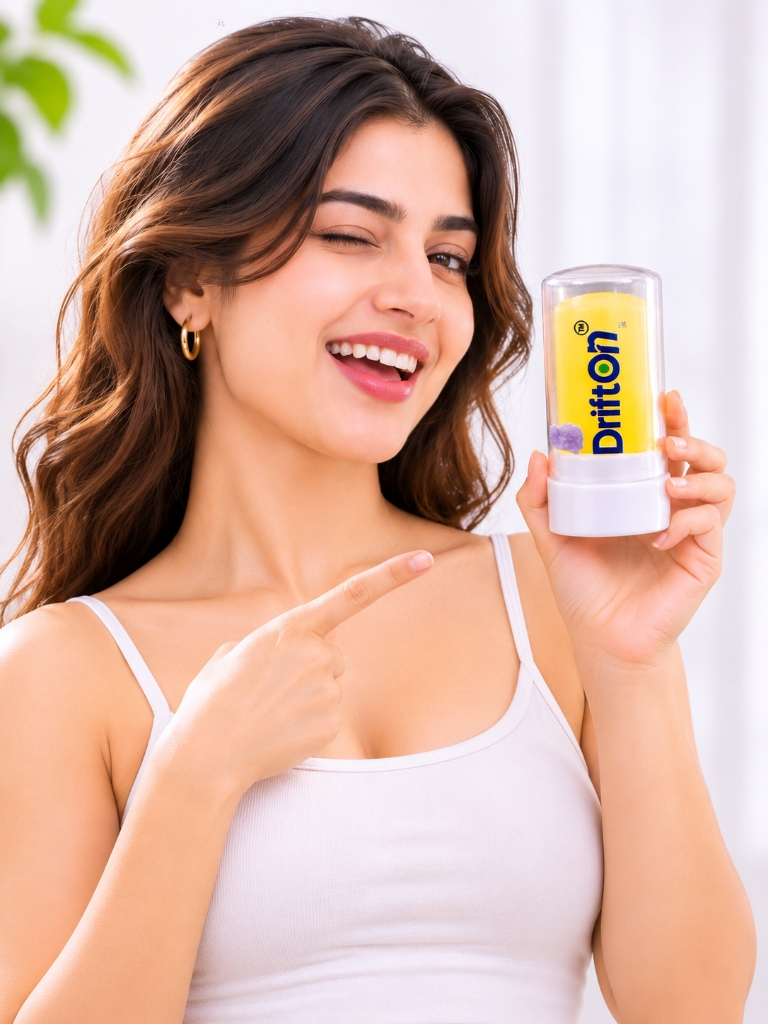
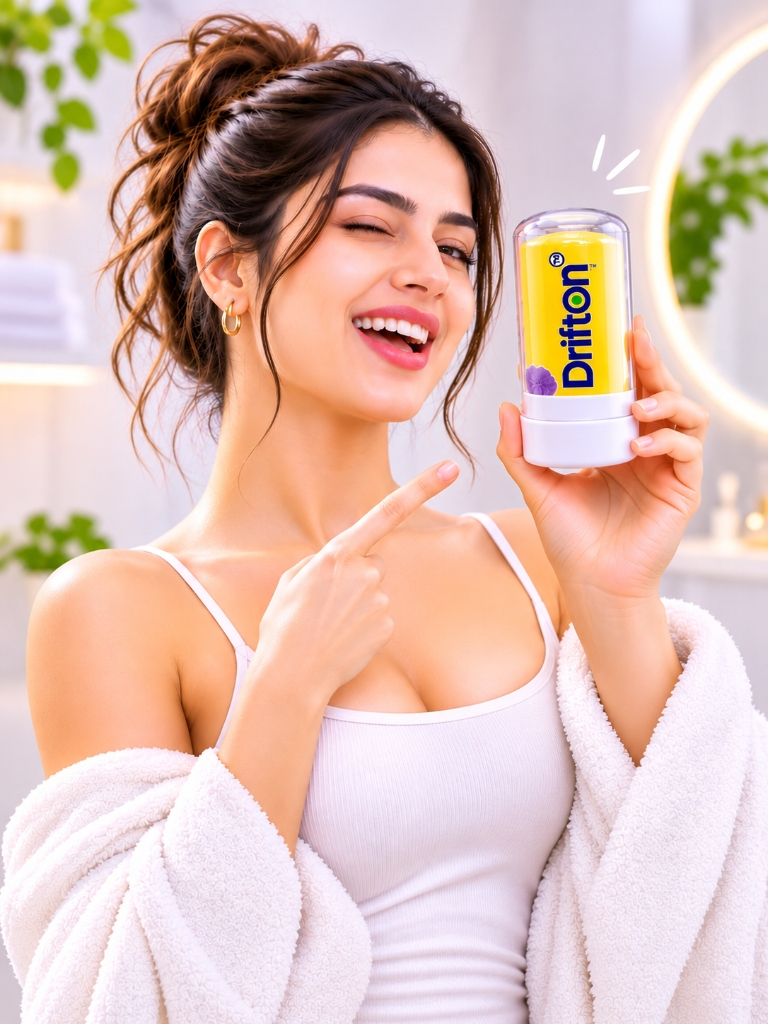
Update hero slide #4 with 4-variants model photo and enlarge right side products

diff --git a/src/data/products.js b/src/data/products.js
@@ -149,7 +149,7 @@ export const bannerSlides = [
     bgFrom: '#F3E9F3', bgTo: '#F7B9D0', glow: '#FF9CC2', dark: false, accent: '#A02E54',
   },
   {
-    productId: 'palash', modelPhoto: '/assets/images/models/model-girl.webp', modelPos: '58% center', cutout: '/assets/images/cutouts/palash.webp', rightImage: '/assets/images/hero-products/range-palash.webp',
+    productId: 'palash', modelPhoto: '/assets/images/models/model-palash-robe.jpg', modelPos: '50% 20%', cutout: '/assets/images/cutouts/palash.webp', rightImage: '/assets/images/hero-products/range-palash.webp',
     bgFrom: '#FFF3E2', bgTo: '#FFC98A', glow: '#FFB45E', dark: false, accent: '#C2571A',
     serif: 'Crystal Roll On', line: 'that keeps you fresh 24/7',
     ingredients: [
@@ -167,7 +167,7 @@ export const bannerSlides = [
     ],
   },
   {
-    productId: 'rose', modelPhoto: '/assets/images/models/model-girls.webp', modelPos: 'center 30%', cutout: '/assets/images/cutouts/rose.webp', rightImage: '/assets/images/hero-products/range-rose.webp',
+    productId: 'rose', modelPhoto: '/assets/images/models/model-two-girls-drifton.jpg', modelPos: '50% 15%', cutout: '/assets/images/cutouts/rose.webp', rightImage: '/assets/images/hero-products/range-rose.webp',
     bgFrom: '#FFF0F4', bgTo: '#F7B5CA', glow: '#F08AAE', dark: false, accent: '#B0305D',
     serif: 'Soft & fresh', line: 'with a touch of rose',
     ingredients: [
@@ -176,7 +176,7 @@ export const bannerSlides = [
     ],
   },
   {
-    productId: 'natural', modelPhoto: '/assets/images/models/model-palash-wink.jpg', modelPos: '50% 20%', cutout: '/assets/images/cutouts/crystal.webp', rightImage: '/assets/images/hero-products/range-natural.webp',
+    productId: 'natural', modelPhoto: '/assets/images/models/model-two-girls-drifton.jpg', modelPos: '50% 15%', cutout: '/assets/images/cutouts/crystal.webp', rightImage: '/assets/images/hero-products/range-natural.webp',
     bgFrom: '#FFF8F0', bgTo: '#FCECD8', glow: '#FFF2E0', dark: false, accent: '#1C6FB8',
     serif: 'Pure & clear', line: 'natural mineral freshness',
     ingredients: [

diff --git a/src/components/HeroBanner.jsx b/src/components/HeroBanner.jsx
@@ -58,11 +58,11 @@ export default function HeroBanner() {
           onError={(e) => { if (!e.currentTarget.src.endsWith(FALLBACK_MODEL)) e.currentTarget.src = FALLBACK_MODEL; }} />
       </div>
 
-      <div className="container-wide relative z-[2] flex h-full items-end justify-center pb-20 pt-[110px] lg:items-center lg:justify-end lg:pb-16 lg:pt-[135px]">
+      <div className="container-wide relative z-[2] flex h-full items-end justify-center pb-20 pt-[110px] lg:items-center lg:justify-end lg:pb-16 lg:pt-[130px]">
         {/* Right: this slide's product big in the middle, its other variants smaller around it (no text, no base) */}
-        <Link key={`p-${i}`} to={url} aria-label={`View ${product.name}`} className="flex h-[62%] w-full items-end justify-center sm:h-[66%] lg:h-full lg:w-[62%] xl:w-[64%] lg:items-center lg:justify-center lg:pr-8 xl:pr-14">
+        <Link key={`p-${i}`} to={url} aria-label={`View ${product.name}`} className="flex h-[66%] w-full items-end justify-center sm:h-[70%] lg:h-full lg:w-[66%] xl:w-[70%] lg:items-center lg:justify-center lg:pr-4 xl:pr-8">
           <img src={slide.rightImage || slide.cutout} alt={`${product.name} and other Drifton variants`}
-            className="h-auto max-h-full w-auto max-w-full animate-from-right object-contain lg:max-h-[min(calc(100svh-170px),860px)]" style={{ animationDelay: '150ms' }} />
+            className="h-auto max-h-full w-auto max-w-full animate-from-right object-contain lg:max-h-[min(calc(100svh-135px),920px)] scale-105 sm:scale-110 lg:scale-105 xl:scale-110 origin-bottom lg:origin-center" style={{ animationDelay: '150ms' }} />
         </Link>
       </div>
       </>}
